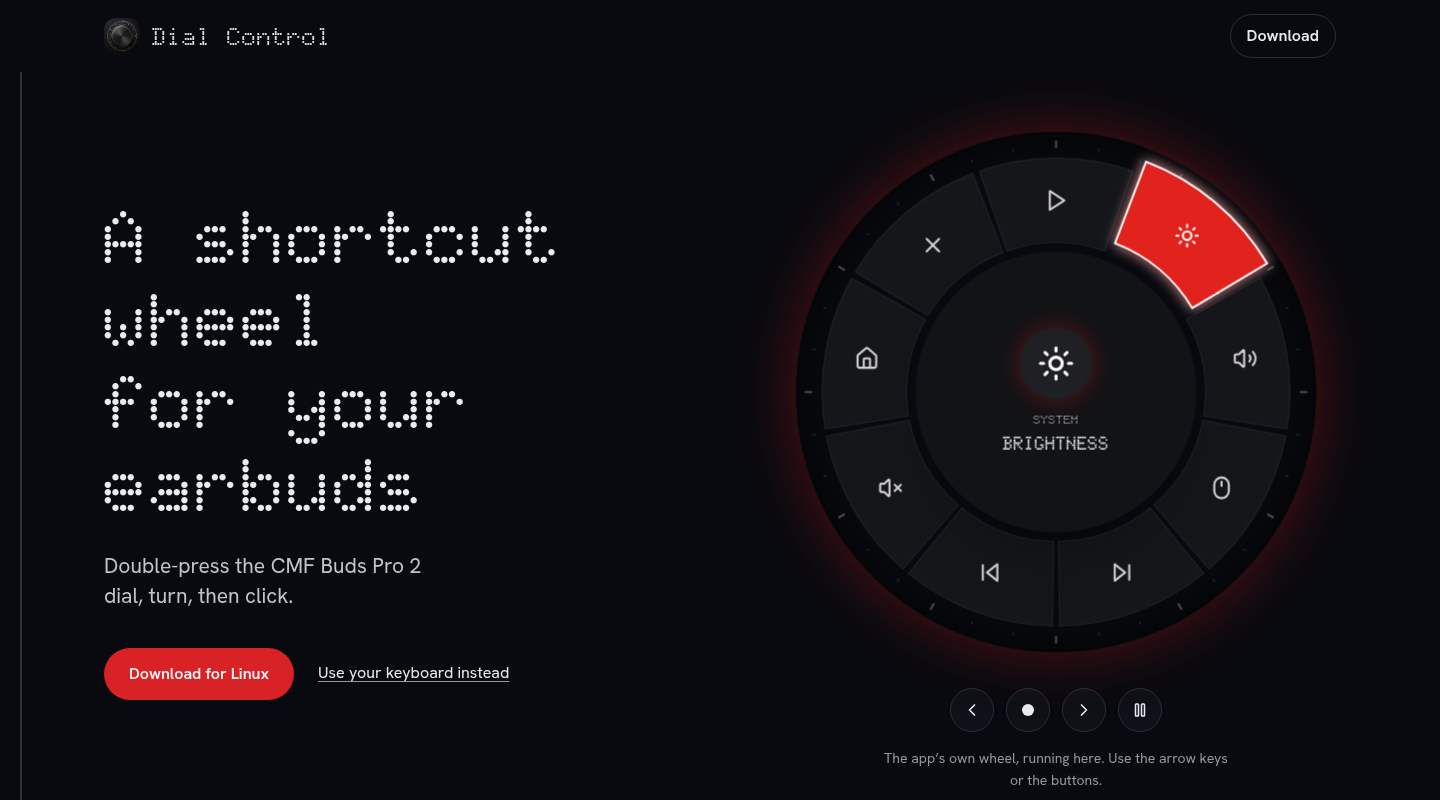
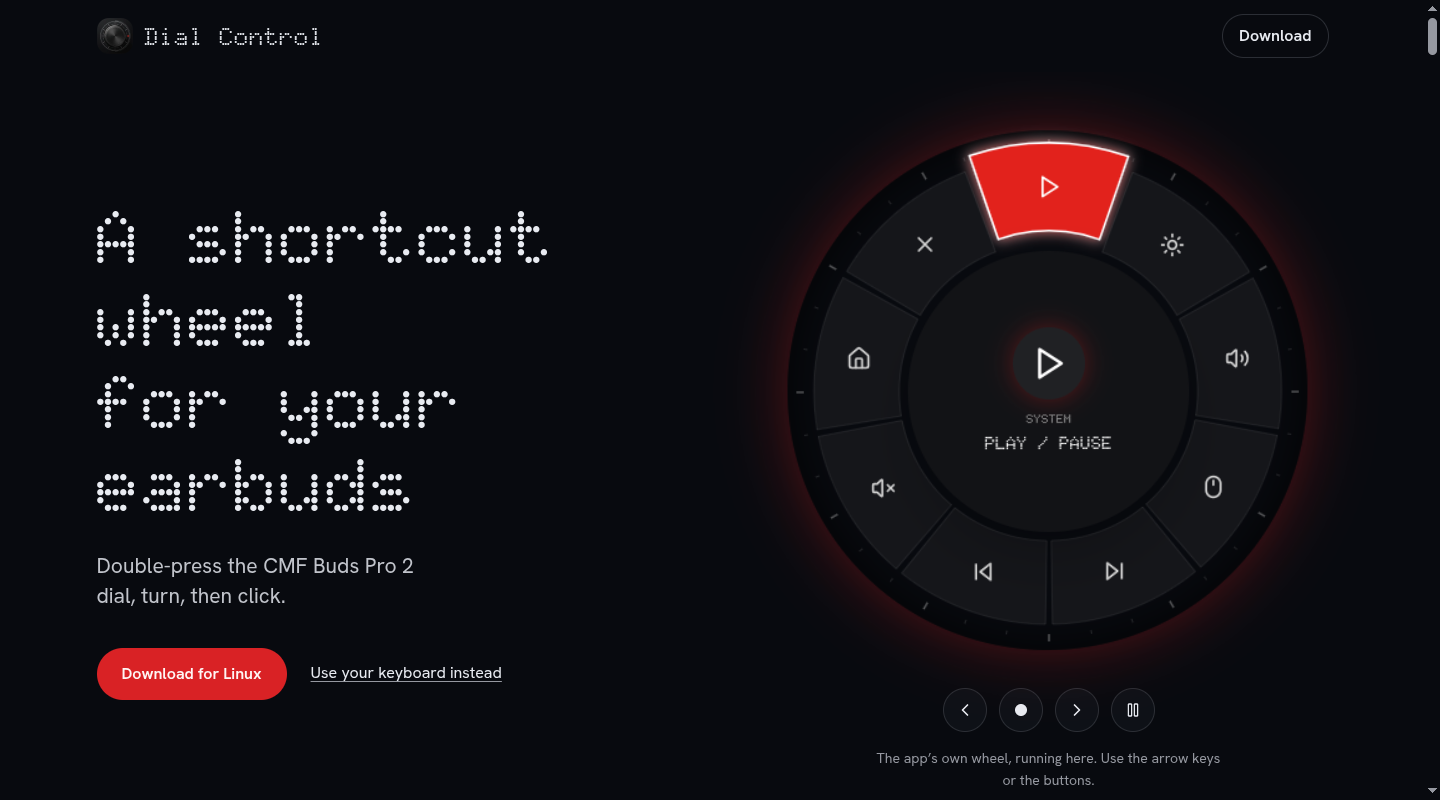
docs(website): drop progress spine, retake hero screenshot, mark macOS beta, add testing call

diff --git a/website/src/styles/global.css b/website/src/styles/global.css
@@ -7,7 +7,7 @@
 /* Hallmark · answered F4 · the download section repeats the hero's one action for the visitor's own system, so the second filled button is the same call to action */
 /* Hallmark · dismissed 58 · the lower window holds two install commands, their copy buttons, three short steps and the footer, where most words are URLs and key names */
 /* Hallmark · dismissed 59 · the tenth section is the pinned anatomy diagram the owner asked for, and the sections that were already on the page stay as they were */
-/* Hallmark · dismissed 23 · the spine is a 2px hairline, so its accent is a sliver of the screen and not a field of it */
+/* Hallmark · dismissed 23 · accent stays a sliver of the screen, not a field of it */
 /* Hallmark · waive 47c · the wheel is the app's own component rendered live inside a product slot · the product itself is what the page sells */
 @import url("./tokens.css");
 @import url("./base.css");
@@ -308,16 +308,6 @@ h3 { font-size: var(--text-title); max-width: 40ch; }
 /* an on-page key lights up while you hold the real one (the individual translate property, so it never fights the 3D keys) */
 .key { transition: background-color var(--dur-micro) var(--ease-out), color var(--dur-micro) var(--ease-out), border-color var(--dur-micro) var(--ease-out), translate var(--dur-micro) var(--ease-out); }
 .key.is-down { background: var(--color-accent); border-color: var(--color-accent); color: var(--color-accent-ink); translate: 0 var(--space-3xs); }
-/* a hairline spine at the edge that fills as you read (CSS scroll timeline; absent where unsupported) */
-.spine { display: none; }
-@supports (animation-timeline: scroll()) {
-  @media (prefers-reduced-motion: no-preference) and (min-width: 60rem) {
-    .spine { display: block; position: fixed; inset-block: var(--banner-height) 0; left: max(var(--space-md), 1.4vw); width: 2px; background: var(--color-rule); z-index: var(--z-raised); pointer-events: none; }
-    .spine::after { content: ""; position: absolute; inset: 0; background: var(--color-accent); transform-origin: top; transform: scaleY(0); animation: spine-grow linear both; animation-timeline: scroll(root); }
-    @keyframes spine-grow { to { transform: scaleY(1); } }
-  }
-}
-
 /* Ask your AI: a pill that copies a ready-made prompt, at the foot of the page. */
 .ask { margin-top: var(--space-3xl); display: grid; gap: var(--space-md); justify-items: center; text-align: center; transform-origin: 50% 50%; }
 .ask__pill { --mx: 50%; --my: 50%; position: relative; display: inline-flex; align-items: center; gap: var(--space-sm); padding: var(--space-xs) var(--space-xs) var(--space-xs) var(--space-lg); border: 1px solid var(--color-rule); border-radius: var(--radius-pill); background: var(--color-paper-2); color: var(--color-ink); transition: border-color var(--dur-short) var(--ease-out); }

diff --git a/CHANGELOG.md b/CHANGELOG.md
@@ -4,6 +4,9 @@ Format based on [Keep a Changelog](https://keepachangelog.com/en/1.1.0/); versio
 
 ## [Unreleased]
 
+### Changed
+- macOS is labelled early access (beta); README asks for issues and test reports on every platform. Removed the left-edge progress line from the website.
+
 ## [1.0.0] - 2026-11-16
 
 First release.
@@ -18,7 +21,7 @@ First release.
 - Tag-driven release workflow and `scripts/bump-version.sh`.
 - One-line installers (`install.sh` for Linux/macOS, `install.ps1` for Windows) that detect the OS and distribution, verify SHA-256 checksums and install the latest release.
 - Keyboard controls documented: the whole wheel works from a global shortcut, arrow keys and the mouse wheel, no earbuds required.
-- Project website (`website/`, Astro): the app's own wheel flies out of the hero in 3D, pins in front of a step-by-step walkthrough (it turns, clicks into the volume gauge, changes it, and so on) with leader lines drawn as you scroll, and the Settings window and keyboard get the same 3D-meets-2D treatment, the leader lines follow the clean-diagram rules (45 degree runs, never crossing, tested), and small interactions (headings that rise in word by word, an "Ask your AI" pill that copies a ready-made chatbot prompt (also served as `/llms.txt`), a leaning Settings window, keys that light as you press them, a progress spine) answer the pointer, and each walkthrough step shows its label before the dial acts; an OS-aware download section, the keyboard-only guide and structured data for search. Deployed to Netlify (`netlify.toml`).
+- Project website (`website/`, Astro): the app's own wheel flies out of the hero in 3D, pins in front of a step-by-step walkthrough (it turns, clicks into the volume gauge, changes it, and so on) with leader lines drawn as you scroll, and the Settings window and keyboard get the same 3D-meets-2D treatment, the leader lines follow the clean-diagram rules (45 degree runs, never crossing, tested), and small interactions (headings that rise in word by word, an "Ask your AI" pill that copies a ready-made chatbot prompt (also served as `/llms.txt`), a leaning Settings window, keys that light as you press them) answer the pointer, and each walkthrough step shows its label before the dial acts; an OS-aware download section, the keyboard-only guide and structured data for search. Deployed to Netlify (`netlify.toml`).
 - `DonutRadialHUD` accepts an `inline` prop so the same component can render in normal flow outside the app.
 
 ### Removed

diff --git a/README.md b/README.md
@@ -98,10 +98,21 @@ The wheel changes with the app in front of you. Profiles, slices, icons and shor
 |---|---|---|---|---|---|
 | **Linux** (X11 / Wayland) | BlueZ D-Bus + `evdev` exclusive grab | WirePlumber / PulseAudio | Mutter D-Bus, `/sys/class/backlight` | GNOME Shell extension, Hyprland, Sway, KDE, X11 | Functional |
 | **Windows** 10 / 11 | Core Audio callback, `WH_KEYBOARD_LL`, Raw Input, own SMTC session | WASAPI | DDC/CI (`dxva2`) + WMI | Win32 foreground window | Functional |
-| **macOS** 14+ (Apple Silicon) | CoreGraphics event tap, CoreAudio listener, own Now Playing session | CoreAudio | DisplayServices | `NSWorkspace` + AppleScript | Functional |
+| **macOS** 14+ (Apple Silicon) | CoreGraphics event tap, CoreAudio listener, own Now Playing session | CoreAudio | DisplayServices | `NSWorkspace` + AppleScript | **Early access (beta)** |
 | **Android** 8.0+ | Own `MediaSession` + `STREAM_MUSIC` watcher | `AudioManager` | `Settings.System` | Accessibility service | **Coming soon** (work in progress, no release yet) |
 
+**macOS is early access / beta.** It compiles in CI but has had far less real-hardware testing than Linux and Windows, so expect rough edges (see [Help test and report issues](#help-test-and-report-issues)).
+
 Windows and macOS decision logic is unit-tested on any host; the OS integrations themselves are verified by compilation in CI-style checks, so field reports are welcome (see [Troubleshooting](#troubleshooting)).
+
+## Help test and report issues
+
+Dial Control is young, and the dial behaves differently across operating systems, Bluetooth stacks, media players and earbuds firmware, so real-world testing is the most useful contribution. **Issues and test reports are welcome on every platform** (Linux, Windows and macOS), macOS most of all while it is in beta.
+
+- Install it, try the dial and the wheel with the apps you actually use, and say what works and what does not.
+- Open an issue with your OS and version, desktop environment (Linux), earbuds model and firmware, what you did, what you expected and what happened.
+- Attach the diagnostics log if clicks or turns misbehave: `%TEMP%\dial-control\dial-control.log` (Windows) or `$TMPDIR/dial-control/dial-control.log` (macOS).
+- Ideas and pull requests are welcome too; see [CONTRIBUTING.md](CONTRIBUTING.md).
 
 ## Install
 

diff --git a/website/README.md b/website/README.md
@@ -48,7 +48,6 @@ React and Motion are shared with the app's component through `resolve.dedupe` in
 - **Ask your AI.** A centred 3D pill under the install steps (it tilts up to 12 degrees toward the pointer with a sheen that follows it, only when the pointer is on the pill itself, and plays the same wiggle, sweep and action-line invitation as the navbar button, offset in time) copies `src/content/ask-ai.md` (placeholders `{{SITE}}` and `{{REPO}}` filled at build) to the clipboard; the same text is served at `/llms.txt`. `src/content/ask-ai.test.ts` guards its facts, links and length. Update the prompt whenever a user-visible feature or requirement changes.
 - **Tilt.** Any element with `data-tilt="<degrees>"` leans toward the pointer (the Settings window; the app switcher and the dial do the same through Framer Motion).
 - **Live keys.** The keys in the keyboard section light up while you hold the real ones (`data-key` holds the `KeyboardEvent.key` value).
-- **A progress spine** at the left edge is pure CSS (a scroll timeline).
 
 To test pointer effects in headless Chrome, launch it with `--blink-settings=primaryPointerType=4,primaryHoverType=2,availablePointerTypes=4,availableHoverTypes=2` (headless reports no pointer), and scroll with `behavior: 'instant'` because the page uses smooth scrolling.
 
